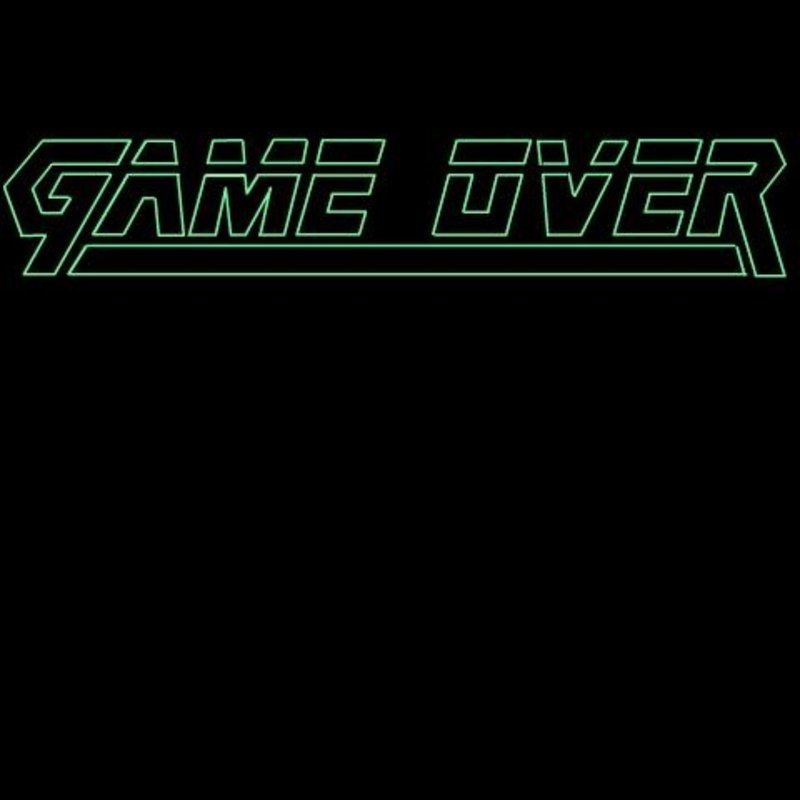
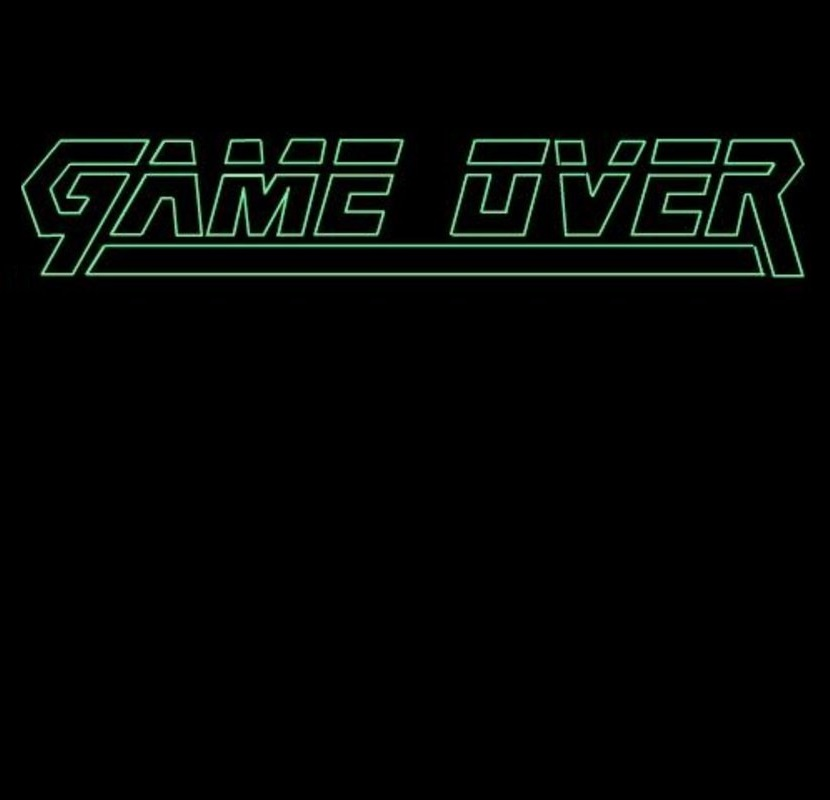
Changed overall look of the game. (Had trouble with branches)

Changed region(s): [[0.0, 0.1562, 0.5, 0.3438], [0.5312, 0.1562, 0.8125, 0.3125], [0.8125, 0.1562, 1.0, 0.3438]]

diff --git a/src/Game/GameStates/GameOver.java b/src/Game/GameStates/GameOver.java
@@ -7,6 +7,7 @@ import UI.UIImageButton;
 import UI.UIManager;
 
 import java.awt.*;
+import java.awt.image.BufferedImage;
 import java.io.IOException;
 import java.io.InputStream;
 
@@ -27,6 +28,7 @@ public class GameOver extends State {
 
     private int count = 0;
     private UIManager uiManager;
+    
 
     public GameOver(Handler handler) {
     	
@@ -34,7 +36,7 @@ public class GameOver extends State {
         uiManager = new UIManager(handler);
         handler.getMouseManager().setUimanager(uiManager);
         
-        uiManager.addObjects(new UIImageButton(56, 223, 128, 64, Images.butstart, new ClickListlener() {
+        uiManager.addObjects(new UIImageButton(100, (223+(64+16))+(64+16), 128, 64, Images.butstart, new ClickListlener() {
             @Override
             public void onClick() {
                 handler.getMouseManager().setUimanager(null);
@@ -44,7 +46,7 @@ public class GameOver extends State {
         }));
 
 
-        uiManager.addObjects(new UIImageButton(56, (223+(64+16))+(64+16), 128, 64, Images.BTitle, () -> {
+        uiManager.addObjects(new UIImageButton(500, (223+(64+16))+(64+16), 128, 64, Images.BTitle, () -> {
             handler.getMouseManager().setUimanager(null);
             State.setState(handler.getGame().menuState);
         }));}
@@ -72,7 +74,7 @@ public class GameOver extends State {
 
     @Override
     public void render(Graphics g) {
-        g.drawImage(Images.SNAKE,0,0,800,800,null);
+        g.drawImage(Images.SNAKE,0,0,790,800,null);
         uiManager.Render(g);
 
     }

diff --git a/src/Main/GameSetUp.java b/src/Main/GameSetUp.java
@@ -87,24 +87,7 @@ public class GameSetUp implements Runnable {
 
         State.setState(menuState);
     }
-//        try {
-//
-//            audioFile = getClass().getResourceAsStream("/music/MGSMain.wav");
-//            audioStream = AudioSystem.getAudioInputStream(audioFile);
-//            format = audioStream.getFormat();
-//            info = new DataLine.Info(Clip.class, format);
-//            audioClip = (Clip) AudioSystem.getLine(info);
-//            audioClip.open(audioStream);
-//            audioClip.loop(Clip.LOOP_CONTINUOUSLY);
-//
-//        } catch (UnsupportedAudioFileException e) {
-//            e.printStackTrace();
-//        } catch (IOException e) {
-//            e.printStackTrace();
-//        } catch (LineUnavailableException e) {
-//            e.printStackTrace();
-//        }
-//    }
+
 
     public void reStart(){
         gameState = new GameState(handler);

diff --git a/src/Resources/Images.java b/src/Resources/Images.java
@@ -32,9 +32,10 @@ public class Images {
 
         try {
 
-            title = ImageIO.read(getClass().getResourceAsStream("/Sheets/Title.png"));
+            title = ImageIO.read(getClass().getResourceAsStream("/Sheets/SnakeMain.png"));
             Pause = ImageIO.read(getClass().getResourceAsStream("/Buttons/Pause.png"));
             GameOver = ImageIO.read(getClass().getResourceAsStream("/Sheets/gameOver.png"));
+            SNAKE = ImageIO.read(getClass().getResourceAsStream("/Sheets/SNAKE.png"));
             Resume[0] = ImageIO.read(getClass().getResourceAsStream("/Buttons/Resume.png"));
             Resume[1] = ImageIO.read(getClass().getResourceAsStream("/Buttons/ResumeP.png"));
             BTitle[0] = ImageIO.read(getClass().getResourceAsStream("/Buttons/BTitle.png"));

diff --git a/src/Display/DisplayScreen.java b/src/Display/DisplayScreen.java
@@ -34,7 +34,7 @@ public class DisplayScreen {
         frame.setResizable(false);
         frame.setLocationRelativeTo(null);
         frame.setVisible(true);
-        frame.setBackground(Color.white);
+        frame.setBackground(Color.red);
         try {
             frame.setIconImage(ImageIO.read(new File("res/Sheets/icon.png")));
         } catch (IOException e) {
@@ -46,7 +46,7 @@ public class DisplayScreen {
         canvas.setMaximumSize(new Dimension(width, height));
         canvas.setMinimumSize(new Dimension(width, height));
         canvas.setFocusable(false);
-        canvas.setBackground(Color.white);
+        canvas.setBackground(Color.gray);
 
         frame.add(canvas);
         frame.pack();

diff --git a/src/Worlds/WorldOne.java b/src/Worlds/WorldOne.java
@@ -31,7 +31,7 @@ public class WorldOne extends WorldBase{
             int appleX = new Random().nextInt(handler.getWorld().GridWidthHeightPixelCount-1);
             int appley = new Random().nextInt(handler.getWorld().GridWidthHeightPixelCount-1);
 
-            //change coordinates till one is selected in which the player isnt standing
+            //change coordinates till one is selected in which the player isn't standing
             boolean goodCoordinates=false;
             do{
                 if(!handler.getWorld().playerLocation[appleX][appley]){

diff --git a/src/Worlds/WorldBase.java b/src/Worlds/WorldBase.java
@@ -55,7 +55,7 @@ public abstract class WorldBase {
 
         for (int i = 0; i <= 780; i = i + GridPixelsize) {
 
-            g.setColor(Color.pink);
+            g.setColor(Color.black);
             g.drawLine(0, i, handler.getWidth() , i);
             g.drawLine(i,0,i,handler.getHeight());
 
